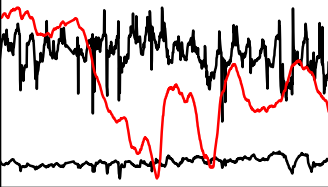
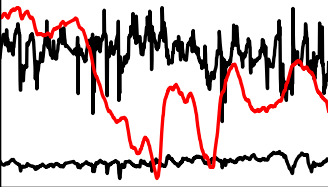
Thickened lines

diff --git a/plot_weather.py b/plot_weather.py
@@ -39,6 +39,11 @@ def plot_data(df):
     ax.set_yticks([])
     ax2.set_yticks([])
 
+    # Set line width
+    ax.lines[0].set_linewidth(2)
+    ax.lines[1].set_linewidth(2)
+    ax2.lines[0].set_linewidth(2)
+
     # Set xlim to the minimum and maximum values of the timestamp column
     ax.set_xlim(df['timestamp'].min(), df['timestamp'].max())
 
